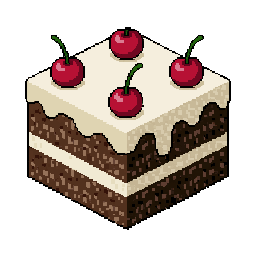
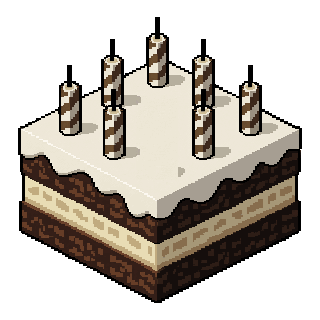
Drawn wing poses, a bigger cake with real candles, matching clouds
- The dragon now cycles three drawn poses (level, up, down) instead of
  frames interpolated between two pictures.
- New larger cake with seven unlit candles; the flames sit on the wicks
  so they can still be blown out. PixelLab returned it with an opaque
  background and an eighth candle, so the background is flood filled to
  transparency and the spare candle inpainted away.
- The home screen uses the same cloud sprite as the game instead of its
  own CSS blocks.

Claude-Session: https://claude.ai/code/session_01PqLBVuxSQTGRvrFNQ3TZis

diff --git a/js/game.js b/js/game.js
@@ -536,10 +536,10 @@ var Game = (function () {
     if (dragonAnim && Sprites.isLoaded()) return dragonAnim;
     if (!Sprites.has("dragon")) return null;
 
-    var names = ["dragon"];
-    for (var i = 1; i <= 6; i++) {
-      if (Sprites.has("dragon" + i)) names.push("dragon" + i);
-    }
+    var names = ["dragon"];                       // wings level
+    if (Sprites.has("dragonUp")) names.push("dragonUp");
+    if (Sprites.has("dragonDown")) names.push("dragonDown");
+    var i;
 
     var box = null;
     for (i = 0; i < names.length; i++) {
@@ -565,12 +565,12 @@ var Game = (function () {
       var fb = Sprites.bounds(names[i]);
       feet.push(fb ? (fb.y + fb.h) - box.h : box.y);
     }
-    /* The frames run from wings out to wings raised, so play them up and
-       back down again for a full beat instead of snapping back to the
-       start. The two end poses are not repeated at the turnaround. */
-    var seq = [];
-    for (i = 0; i < names.length; i++) seq.push(i);
-    for (i = names.length - 2; i > 0; i--) seq.push(i);
+    /* Three drawn poses cycled the way the original Flappy Bird does it:
+       level, up, level, down. Not a stretch between two pictures. */
+    var seq;
+    if (names.length >= 3)      seq = [0, 1, 0, 2];
+    else if (names.length === 2) seq = [0, 1];
+    else                         seq = [0];
 
     dragonAnim = { names: names, box: box, seq: seq, feet: feet };
     return dragonAnim;
@@ -584,9 +584,8 @@ var Game = (function () {
          the body itself the size it was before the wings could lift */
       var h = 86;
       var w = h * (box.w / box.h);
-      /* about two full wing beats a second in flight, a little lazier
-         while he is hovering waiting to start */
-      var fps = mode === "play" ? 24 : 16;
+      /* wing beats per second, brisker in flight than while hovering */
+      var fps = mode === "play" ? 11 : 7;
       var seq = anim.seq;
       var frame = seq[Math.floor(t * fps) % seq.length];
       var sp = Sprites.get(anim.names[frame]);

diff --git a/styles.css b/styles.css
@@ -495,7 +495,7 @@ img, canvas { image-rendering: pixelated; image-rendering: crisp-edges; }
   height: auto;
   image-rendering: pixelated;
 }
-.cake.has-art { width: 46vmin; max-width: 230px; height: 46vmin; max-height: 230px; }
+.cake.has-art { width: 58vmin; max-width: 300px; height: 58vmin; max-height: 300px; }
 .cake.has-art .layer, .cake.has-art .plate { display: none; }
 .cake.has-art .candles { bottom: 52%; gap: 1.6vmin; }
 
@@ -552,7 +552,7 @@ body, .big-btn {
   position: absolute;
   /* the flame sprite carries a lot of transparent padding, so the box is
      much wider than the flame that shows inside it */
-  width: 26%;
+  width: 22%;
   height: auto;
   transform: translate(-50%, -80%);
   transform-origin: 50% 100%;
@@ -570,3 +570,17 @@ body, .big-btn {
   transform: translate(-50%, -110%) scale(.25);
   transition: opacity .3s ease-out, transform .3s ease-out;
 }
+
+/* ---- same cloud art as the game, instead of CSS blocks ---- */
+.cloud {
+  background: url("art/cloud.png") no-repeat center center;
+  background-size: 100% 100%;
+  image-rendering: pixelated;
+  opacity: 1;
+  border-radius: 0;
+}
+.cloud::before, .cloud::after { display: none; }
+/* the sprite is 2:1, so every cloud keeps that shape */
+.c1 { width: 22vmin;   height: 11vmin;   top: 8%;  }
+.c2 { width: 16vmin;   height: 8vmin;    top: 20%; }
+.c3 { width: 27vmin;   height: 13.5vmin; top: 33%; opacity: .85; }

diff --git a/js/config.js b/js/config.js
@@ -19,14 +19,10 @@ var PARTY = {
 /* Pixel art made with PixelLab. Anything missing here simply falls back
    to the hand drawn version, so the app never breaks over a stray file. */
 var ART = {
-  dragon:  "art/dragon.png",         // the flying hero, facing right
-  /* wing flap frames - drop any of these and the dragon simply stops flapping */
-  dragon1: "art/dragon-1.png",
-  dragon2: "art/dragon-2.png",
-  dragon3: "art/dragon-3.png",
-  dragon4: "art/dragon-4.png",
-  dragon5: "art/dragon-5.png",
-  dragon6: "art/dragon-6.png",
+  dragon:  "art/dragon.png",         // the flying hero, wings level
+  /* the other two wing positions; drop them and he simply stops flapping */
+  dragonUp:   "art/dragon-up.png",
+  dragonDown: "art/dragon-down.png",
   candle:  "art/candle.png",         // striped wax; its rim and column both come from this
   flame:   "art/flame.png",          // flame that sits at the tip of each candle
   grass:   "art/grass-block.png",    // ground tile

diff --git a/js/main.js b/js/main.js
@@ -50,14 +50,14 @@
     }
   }
 
-  /* One flame per cherry. These are the four cherry centres measured
-     off cake.png, as a percentage of the picture, nudged down a little
-     so each flame sits on top of its cherry. */
+  /* One flame per candle, sitting at the tip of each wick. Read off
+     cake.png as percentages of the picture, so the flames stay put
+     whatever size the cake is drawn at. */
   var FLAME_SPOTS = [
-    [49.5, 21],     // back
-    [26.4, 32],     // left
-    [72.9, 32],     // right
-    [49.3, 44]      // front
+    [48.5, 7],                  // back
+    [35, 13.5], [63, 13.5],
+    [21.5, 21.5], [78.5, 21.5],
+    [35, 29], [63, 29]          // front pair
   ];
 
   function buildCakeFlames() {

diff --git a/sw.js b/sw.js
@@ -4,7 +4,7 @@
    Everything here is best effort: if caching fails for any reason the
    app still works, it just loads from the network like a normal page. */
 
-var CACHE_VERSION = "birthday-v9";
+var CACHE_VERSION = "birthday-v10";
 
 var FILES = [
   "./",
@@ -21,12 +21,8 @@ var FILES = [
   "./js/sprites.js",
   "./art/partypixel.ttf",
   "./art/dragon.png",
-  "./art/dragon-1.png",
-  "./art/dragon-2.png",
-  "./art/dragon-3.png",
-  "./art/dragon-4.png",
-  "./art/dragon-5.png",
-  "./art/dragon-6.png",
+  "./art/dragon-up.png",
+  "./art/dragon-down.png",
   "./art/candle.png",
   "./art/flame.png",
   "./art/grass-block.png",

diff --git a/README.md b/README.md
@@ -76,10 +76,13 @@ art/            pixel art + the pixel font, all generated with PixelLab
 
 Every sprite in `art/` was generated with [PixelLab](https://pixellab.ai),
 along with `partypixel.ttf`, the pixel font the whole app is set in. The
-dragon's wing beat is a 7 frame animation (`dragon.png` plus `dragon-1..6.png`)
-that sweeps the wings from spread out to raised and plays back down again;
-drop any of those frames and it simply stops flapping. Each frame is anchored
-by the dragon's feet so only the wings move, not the body.
+dragon has three drawn wing positions - `dragon.png` (level), `dragon-up.png`
+and `dragon-down.png` - cycled level, up, level, down the way the original
+Flappy Bird does it. Drop either of the extra two and he simply stops flapping.
+Each pose is anchored by the dragon's feet so only the wings move, not the body.
+
+The cake carries seven unlit candles; the flames are laid on top at runtime from
+`flame.png`, positioned at each wick, which is what lets them be blown out.
 
 The candle columns are built from `candle.png`: the rounded lip goes at the tip
 and one full turn of the spiral is repeated down the shaft, so the stripe runs
